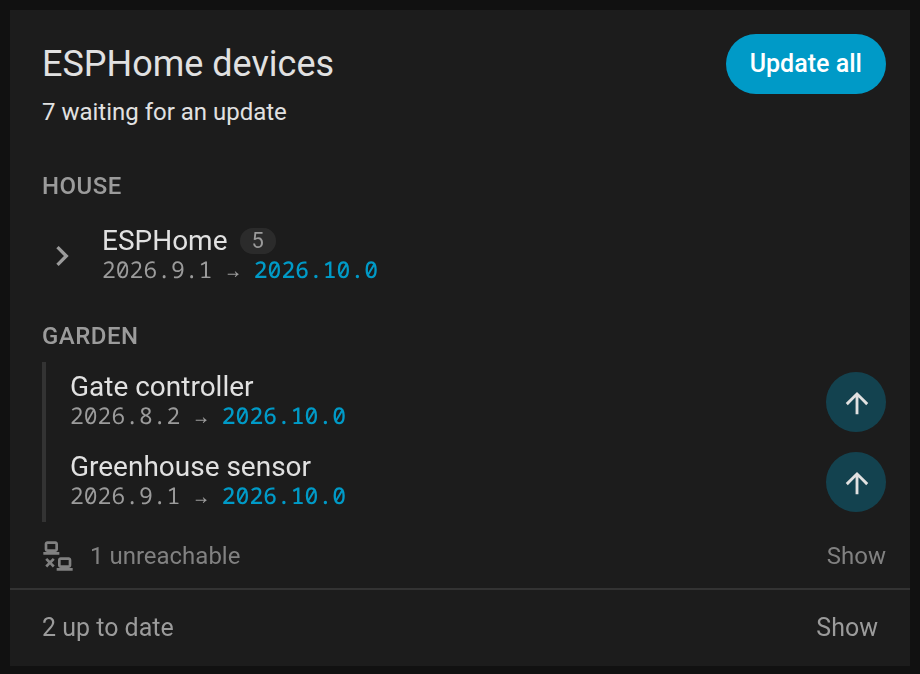
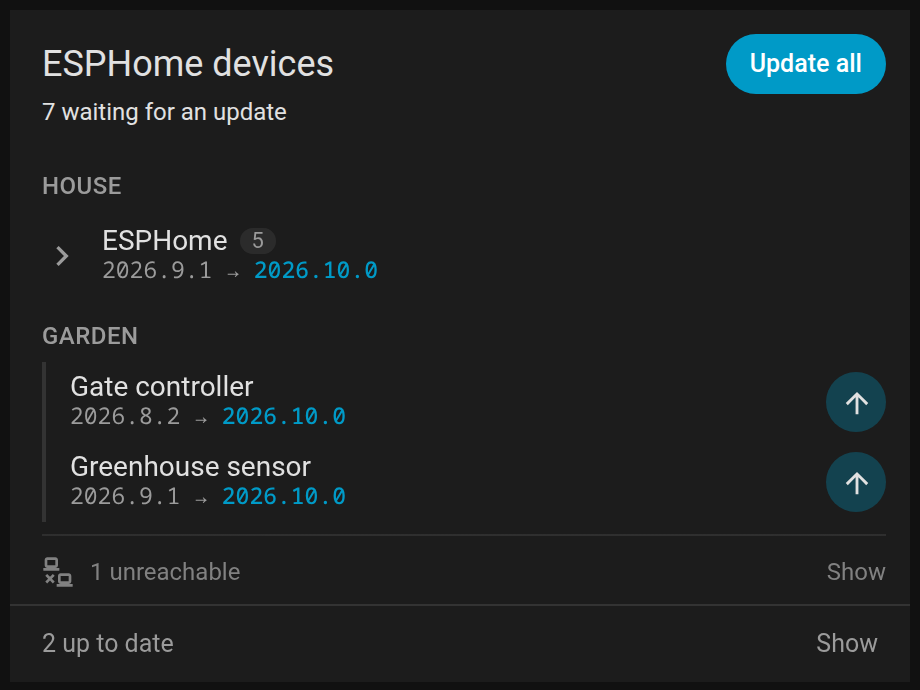
Set the line of devices out of reach apart at the end of its group
The line came between the waiting rows and the rows up to date, where it
got lost. It now sits at the end of its group, where the README already
put it, with a rule above it. Its rows look like the rows up to date, and
their state lines up with the versions on the right. The README says why
a new ESPHome device may be missing, and the version is 1.0.1.

diff --git a/dist/updates-card.js b/dist/updates-card.js
@@ -1,4 +1,4 @@
-/*! updates-card 1.0.0 | MIT License */
+/*! updates-card 1.0.1 | MIT License */
 var __defProp = Object.defineProperty;
 var __getOwnPropDesc = Object.getOwnPropertyDescriptor;
 var __decorateClass = (decorators, target, key, kind) => {
@@ -711,7 +711,7 @@ var c4 = e5(class extends i5 {
 });
 
 // src/const.ts
-var CARD_VERSION = "1.0.0";
+var CARD_VERSION = "1.0.1";
 var FEATURE_INSTALL = 1;
 var BUNCH_MIN = 3;
 var DONE_KEEP = 5 * 6e4;
@@ -1363,7 +1363,7 @@ var UpdatesCard = class extends i4 {
         (bunch) => this.bunch(group, bunch, byId, busy)
       )}
                 ${singles.length > 0 ? b2`<div class="grp-body">${keyed(singles, (r6) => this.waitingRow(byId.get(r6.entity_id), busy))}</div>` : A}
-                ${this.unreachableLine(group, unreachable)} ${current.length > 0 ? this.fold(quiet || this.open, rest) : A}
+                ${current.length > 0 ? this.fold(quiet || this.open, rest) : A} ${this.unreachableLine(group, unreachable)}
             </div>`
     );
   }
@@ -1442,7 +1442,10 @@ var UpdatesCard = class extends i4 {
             <div class="end"><span class="ver">${row.installed}</span></div>
         </div>`;
   }
-  /** A group's devices out of reach: a muted line that opens to them. Their versions may be unknown while they're away. */
+  /**
+   * A group's devices out of reach: a muted line at the group's end, set apart by a rule, that opens to them. Their
+   * versions may be unknown while they're away.
+   */
   unreachableLine(group, rows) {
     if (rows.length === 0) {
       return A;
@@ -1461,7 +1464,7 @@ var UpdatesCard = class extends i4 {
                     ${keyed(
         rows,
         (row) => b2`<div
-                                class="row"
+                                class="row sib"
                                 role="button"
                                 tabindex="0"
                                 @click=${() => this.moreInfo(row.entity_id)}
@@ -1471,7 +1474,7 @@ var UpdatesCard = class extends i4 {
                                     <div class="name">${row.name}</div>
                                     ${row.latest && row.latest !== row.installed ? this.versions(row.installed, row.latest) : A}
                                 </div>
-                                <div class="end"><span class="pill off">${this.text("status.unreachable")}</span></div>
+                                <div class="end"><span class="off-state">${this.text("status.unreachable")}</span></div>
                             </div>`
       )}
                 </div>`
@@ -1953,17 +1956,27 @@ var UpdatesCard = class extends i4 {
                 max-width: 100%;
             }
 
+            /* A rule above it, inset as the rows are, keeps it apart from the rows before it. */
             .off-line {
+                --uc-inset: 16px;
                 display: flex;
                 align-items: center;
                 gap: 8px;
                 width: 100%;
                 box-sizing: border-box;
-                padding: 8px 12px 2px 16px;
+                margin-top: 6px;
+                padding: 10px 12px 2px var(--uc-inset);
+                background: linear-gradient(var(--divider-color, rgba(0, 0, 0, 0.12)), var(--divider-color, rgba(0, 0, 0, 0.12))) no-repeat
+                    left var(--uc-inset) top 0 / calc(100% - var(--uc-inset) - 12px) 1px;
                 font-size: 12px;
                 color: var(--secondary-text-color);
                 opacity: 0.8;
                 --mdc-icon-size: 16px;
+            }
+
+            .off-state {
+                font-size: 11.5px;
+                white-space: nowrap;
             }
 
             .grow {
@@ -2019,9 +2032,12 @@ var UpdatesCard = class extends i4 {
                 .row,
                 .sum,
                 .one,
-                .grp-h,
-                .off-line {
+                .grp-h {
                     padding-left: 10px;
+                }
+
+                .off-line {
+                    --uc-inset: 10px;
                 }
 
                 .hd-sub,

diff --git a/src/updates-card.ts b/src/updates-card.ts
@@ -374,7 +374,7 @@ export class UpdatesCard extends LitElement {
                     (bunch) => this.bunch(group, bunch, byId, busy),
                 )}
                 ${singles.length > 0 ? html`<div class="grp-body">${keyed(singles, (r) => this.waitingRow(byId.get(r.entity_id)!, busy))}</div>` : nothing}
-                ${this.unreachableLine(group, unreachable)} ${current.length > 0 ? this.fold(quiet || this.open, rest) : nothing}
+                ${current.length > 0 ? this.fold(quiet || this.open, rest) : nothing} ${this.unreachableLine(group, unreachable)}
             </div>`,
         );
     }
@@ -462,7 +462,10 @@ export class UpdatesCard extends LitElement {
         </div>`;
     }
 
-    /** A group's devices out of reach: a muted line that opens to them. Their versions may be unknown while they're away. */
+    /**
+     * A group's devices out of reach: a muted line at the group's end, set apart by a rule, that opens to them. Their
+     * versions may be unknown while they're away.
+     */
     private unreachableLine(group: Group, rows: Row[]): TemplateResult | typeof nothing {
         if (rows.length === 0) {
             return nothing;
@@ -482,7 +485,7 @@ export class UpdatesCard extends LitElement {
                         rows,
                         (row) =>
                             html`<div
-                                class="row"
+                                class="row sib"
                                 role="button"
                                 tabindex="0"
                                 @click=${() => this.moreInfo(row.entity_id)}
@@ -492,7 +495,7 @@ export class UpdatesCard extends LitElement {
                                     <div class="name">${row.name}</div>
                                     ${row.latest && row.latest !== row.installed ? this.versions(row.installed, row.latest) : nothing}
                                 </div>
-                                <div class="end"><span class="pill off">${this.text("status.unreachable")}</span></div>
+                                <div class="end"><span class="off-state">${this.text("status.unreachable")}</span></div>
                             </div>`,
                     )}
                 </div>`,
@@ -998,17 +1001,27 @@ export class UpdatesCard extends LitElement {
                 max-width: 100%;
             }
 
+            /* A rule above it, inset as the rows are, keeps it apart from the rows before it. */
             .off-line {
+                --uc-inset: 16px;
                 display: flex;
                 align-items: center;
                 gap: 8px;
                 width: 100%;
                 box-sizing: border-box;
-                padding: 8px 12px 2px 16px;
+                margin-top: 6px;
+                padding: 10px 12px 2px var(--uc-inset);
+                background: linear-gradient(var(--divider-color, rgba(0, 0, 0, 0.12)), var(--divider-color, rgba(0, 0, 0, 0.12))) no-repeat
+                    left var(--uc-inset) top 0 / calc(100% - var(--uc-inset) - 12px) 1px;
                 font-size: 12px;
                 color: var(--secondary-text-color);
                 opacity: 0.8;
                 --mdc-icon-size: 16px;
+            }
+
+            .off-state {
+                font-size: 11.5px;
+                white-space: nowrap;
             }
 
             .grow {
@@ -1064,9 +1077,12 @@ export class UpdatesCard extends LitElement {
                 .row,
                 .sum,
                 .one,
-                .grp-h,
-                .off-line {
+                .grp-h {
                     padding-left: 10px;
+                }
+
+                .off-line {
+                    --uc-inset: 10px;
                 }
 
                 .hd-sub,

diff --git a/tests/card.test.ts b/tests/card.test.ts
@@ -77,7 +77,7 @@ describe("updates-card", () => {
         (one(element, ".off-line") as HTMLButtonElement).click();
         await element.updateComplete;
         expect(all(element, ".grp-body.muted .row .name").map(text)).toEqual([...SHED].sort());
-        expect(all(element, ".grp-body.muted .pill.off").map(text)).toEqual(["Unreachable", "Unreachable", "Unreachable"]);
+        expect(all(element, ".grp-body.muted .off-state").map(text)).toEqual(["Unreachable", "Unreachable", "Unreachable"]);
     });
 
     describe("the Update all button", () => {
@@ -106,6 +106,17 @@ describe("updates-card", () => {
         expect(all(element, ".grp-h").map(text)).toEqual(["House", "Shed"]);
         expect(all(element, ".row.sib .name").map(text)).toEqual(["Desk lamp", "Hall light", "Heat pump plug", ...[...SHED].sort()]);
         expect(text(one(element, ".switch"))).toBe("6 up to date Hide");
+    });
+
+    it("puts the line of devices out of reach at the end of its group, after the rows up to date", async () => {
+        const element = await card(home({ installed: "2026.2.0" }, WAITING, { 1: { state: "unavailable" } }));
+        (one(element, ".switch") as HTMLButtonElement).click();
+        await element.updateComplete;
+        const house = all(element, ".group").find((g) => text(g.querySelector(".grp-h")) === "House")!;
+        const order = [...house.querySelectorAll(".row.sib, .off-line")]
+            .filter((e) => !e.closest("[inert]"))
+            .map((e) => (e.classList.contains("off-line") ? "line" : "row"));
+        expect(order).toEqual(["row", "row", "row", "line"]);
     });
 
     it("bunches waiting devices of the same software and version, and lists them all when opened", async () => {

diff --git a/README.md b/README.md
@@ -100,6 +100,9 @@ their group, and don't keep the card from folding into one line. ESPHome, for on
 entity available, and its status sensor too, which turns off. That is why the device's other entities are asked, and
 why a connection sensor counts by what it says.
 
+**A device that isn't there.** The card lists update entities, and Home Assistant creates a new ESPHome device's update
+entity disabled. Such a device shows once its update entity is enabled in the device's settings.
+
 ## Sizes
 
 The card takes a whole section by default and can be made as narrow as half of one. Below 300 pixels, the **Update
